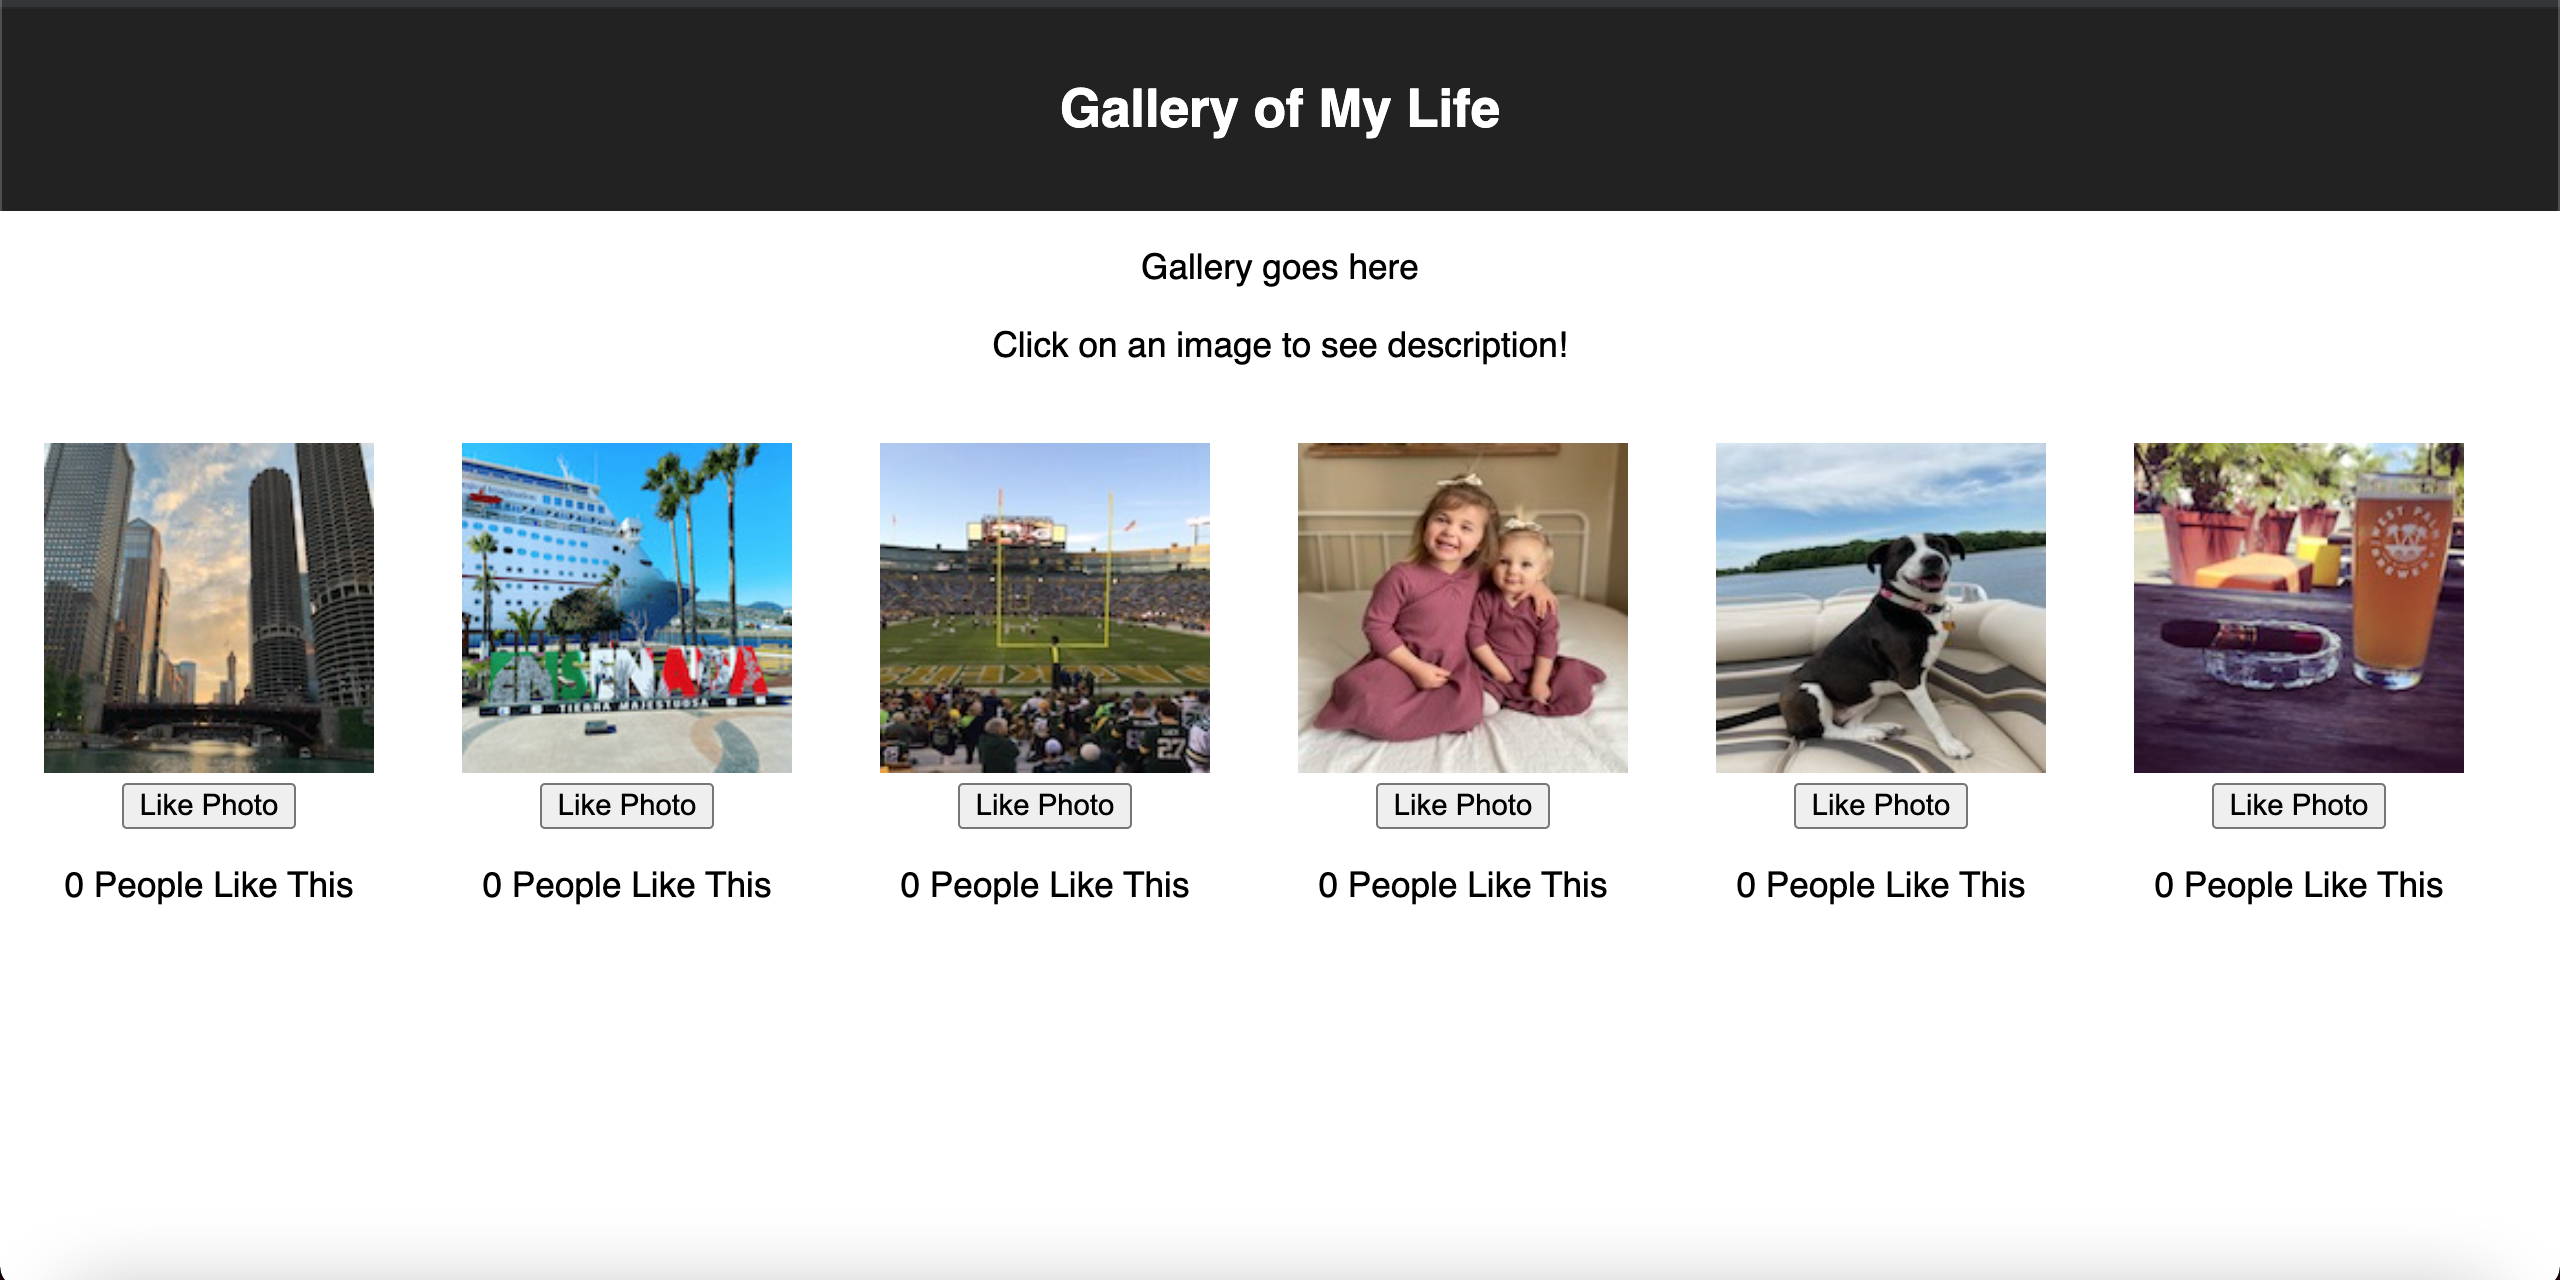
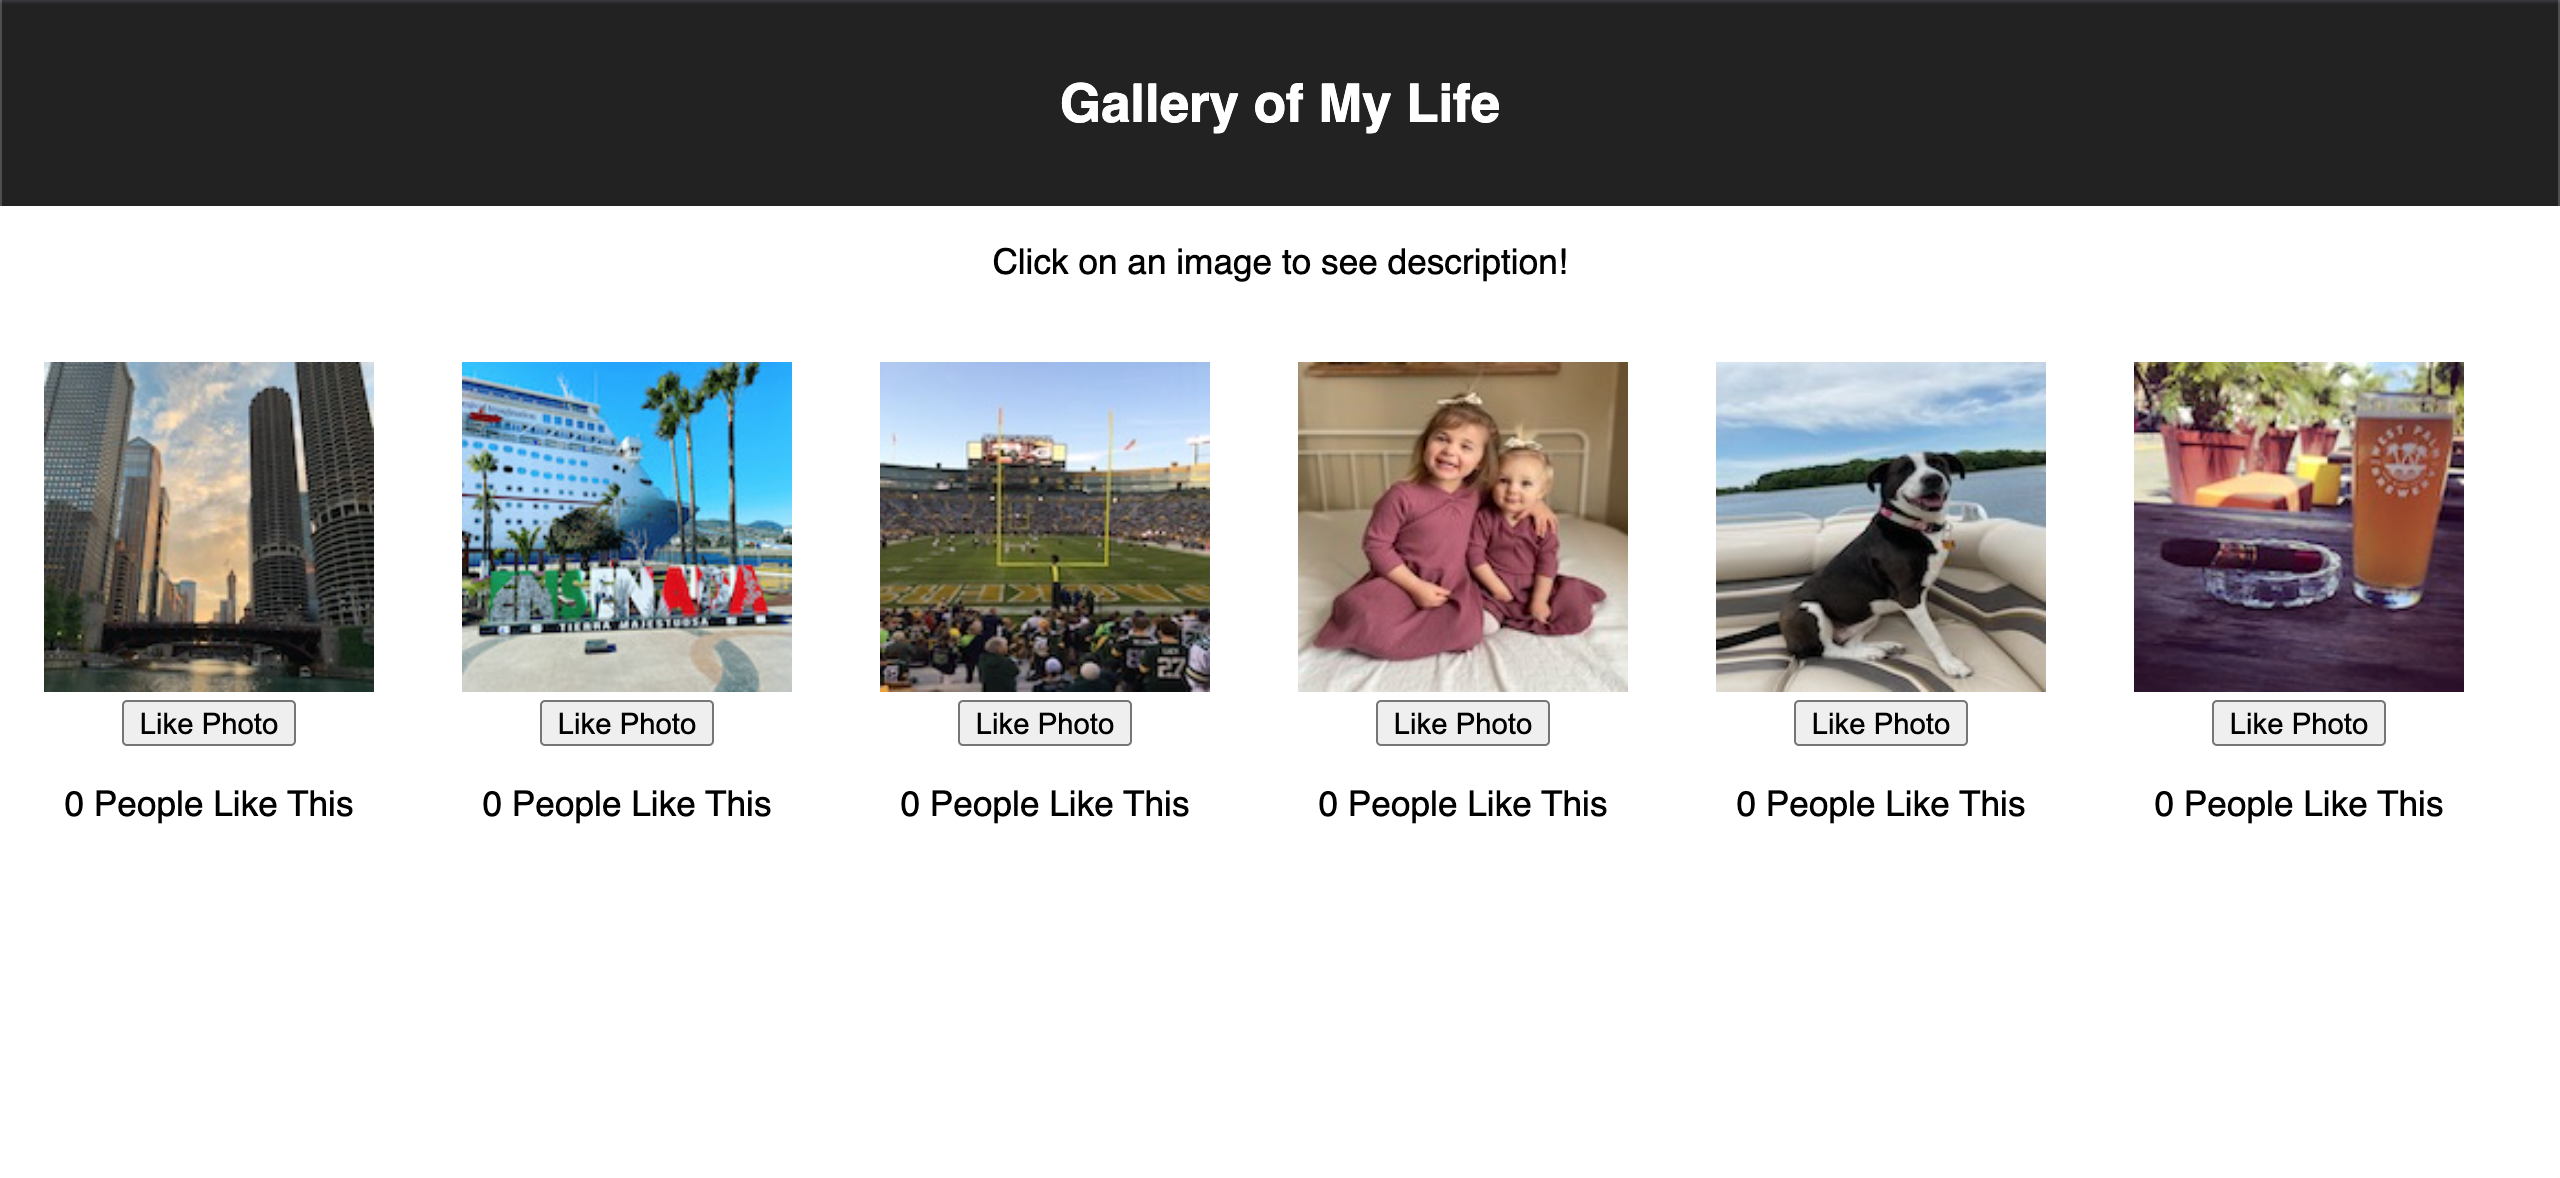
removed p tag in App and changed screenshot

diff --git a/src/components/App/App.jsx b/src/components/App/App.jsx
@@ -38,7 +38,7 @@ function App() {
         <header className="App-header">
           <h1 className="App-title">Gallery of My Life</h1>
         </header>
-        <p>Gallery goes here</p>
+        {/* <p>Gallery goes here</p> */}
         <p>Click on an image to see description!</p>
         
         {/* <img src="images/twinkie_dog.jpg"/> */}
